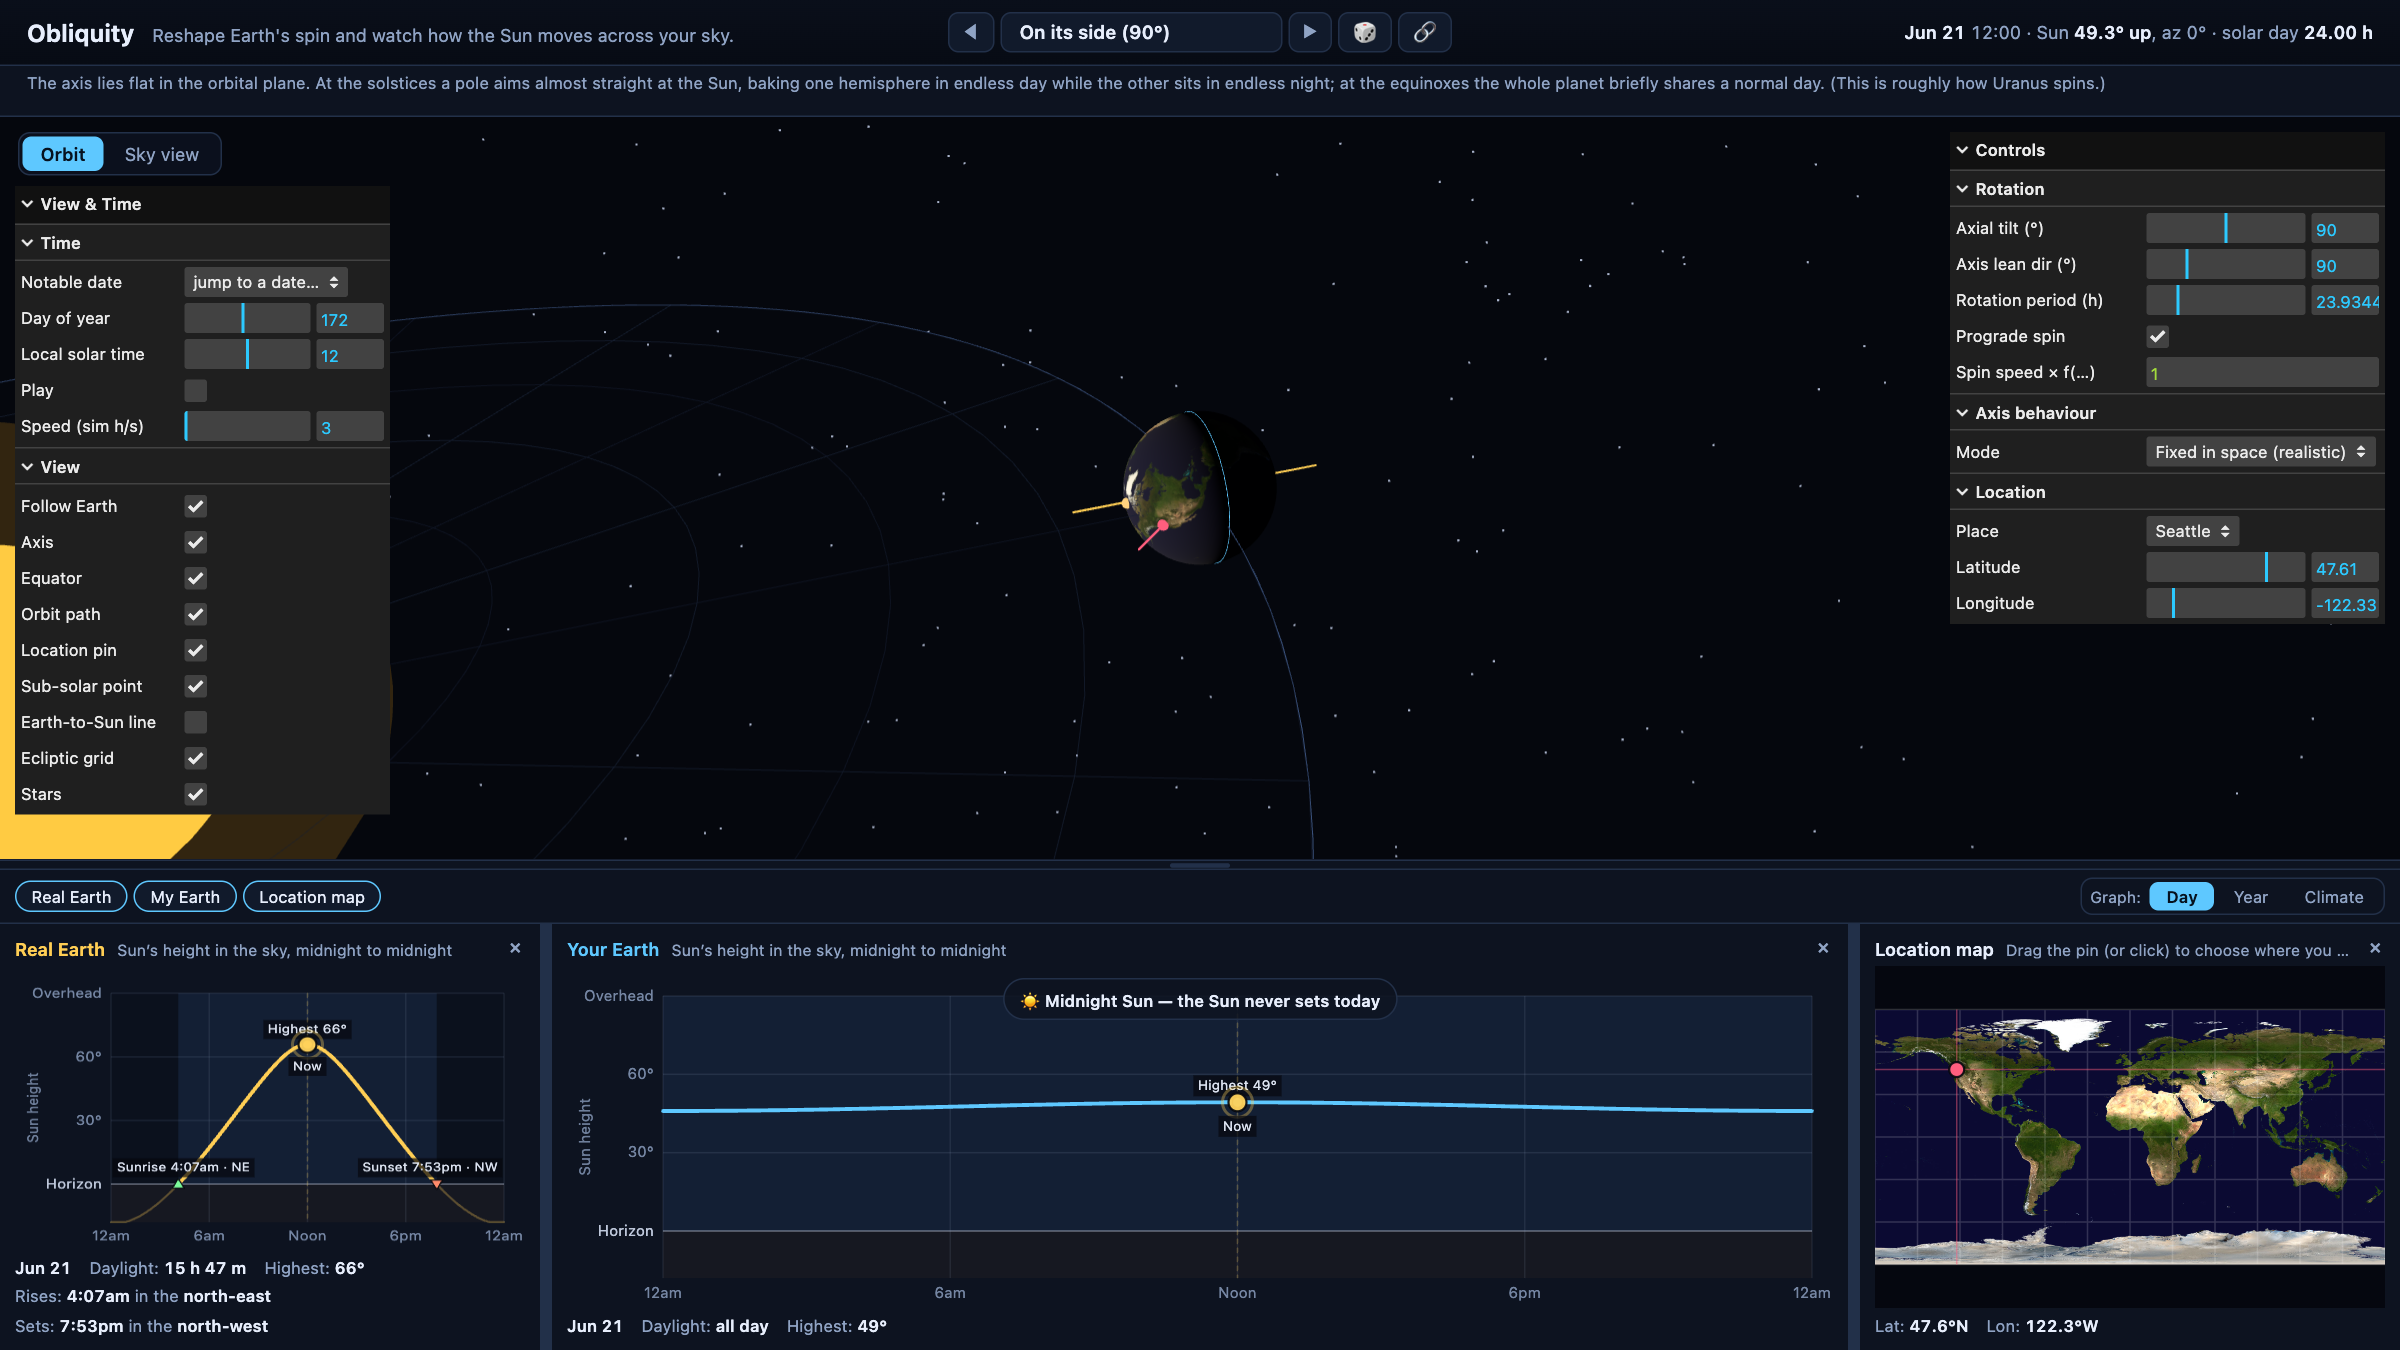
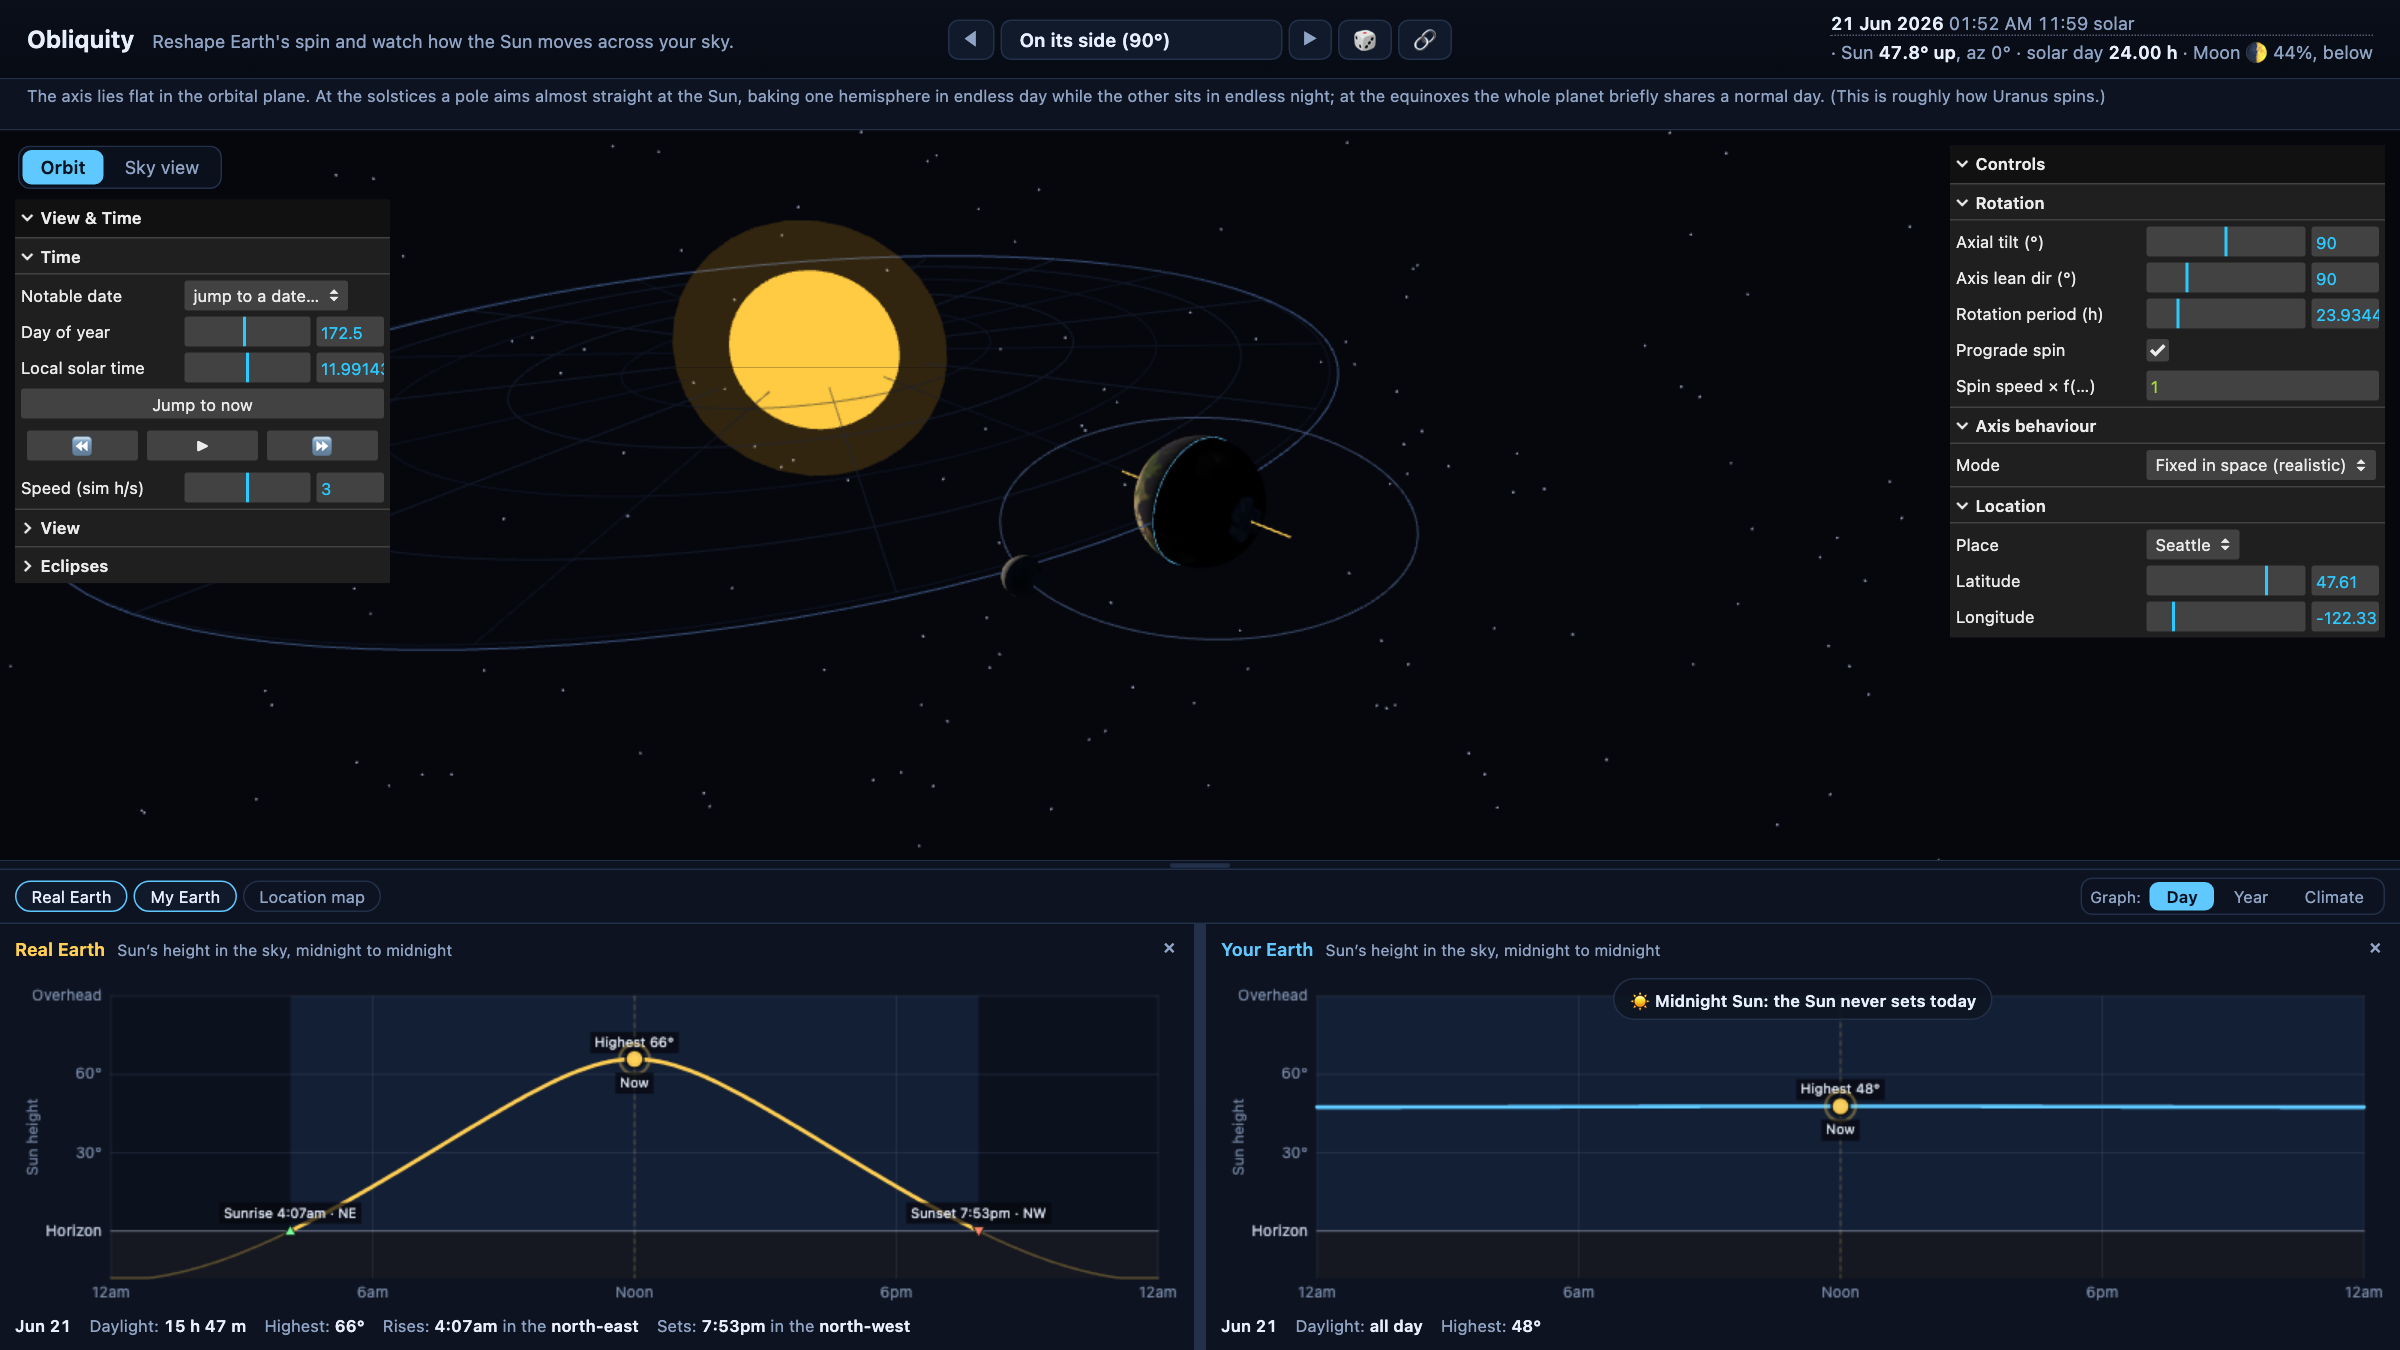
Update the README and refresh its screenshots

diff --git a/README.md b/README.md
@@ -13,11 +13,9 @@ Obliquity is an interactive web app for playing with how the Earth spins. The or
 - Compare the real Earth beside your version, same place and date.
 - See the Sun three ways: a daily arc, a year heatmap, and a felt-warmth climate curve.
 - Watch from a 3D orbit or a first-person sky view, anywhere on Earth.
+- See eclipses happen during your redefinition of the Earth's spin.
 - Jump to solstices, scrub time on the charts, or press play.
 - Start from chaos-tuned scenarios, then share your world with one link.
-
-The same place on the June solstice: the real Earth's familiar arc on the left, and a world tipped fully onto its side on the right, where the Sun simply never sets.
-
 ![Real Earth compared with a world tipped onto its side](docs/compare.png)
 
 The first-person sky view puts you on the ground, watching the Sun arc over a schematic horizon as the day plays out.
@@ -47,12 +45,14 @@ The expressions are not JavaScript. They are parsed by a tiny sandboxed evaluato
 | Name | Meaning |
 | --- | --- |
 | `phase` | Fraction around the orbit, 0 at the March equinox, wrapping at 1. |
-| `lon` | The Sun's ecliptic longitude this orbit, 0 to 360 degrees. |
+| `sol_lon` | The Sun's ecliptic longitude this orbit, 0 to 360 degrees. |
 | `day` | Day of the year, 1 to about 365. |
 | `year`, `t` | Elapsed time in years, accumulating across orbits so the world keeps evolving. |
 | `orbit` | Whole orbits completed so far. |
+| `lat` | The latitude you are standing at, degrees, positive north. |
+| `lon` | The longitude you are standing at, degrees, positive east. |
 
-A formula that uses only `phase`, `lon`, or `day` repeats every year. Bring in `year`, `t`, or `orbit` to make it drift from one orbit to the next; an irrational coefficient such as `0.05*sqrt(2)*year` makes it never exactly repeat.
+A formula that uses only `phase`, `sol_lon`, or `day` repeats every year. Bring in `year`, `t`, or `orbit` to make it drift from one orbit to the next; an irrational coefficient such as `0.05*sqrt(2)*year` makes it never exactly repeat.
 
 ### Functions and constants
 
@@ -74,4 +74,4 @@ For example, the Tumbling World uses a tilt of `65 + 30*wave(phase)` and a lean 
 
 ## Credits
 
-The Earth texture is NASA's public domain Blue Marble imagery. Built with Three.js and lil-gui.
+The Earth texture is NASA's public domain Blue Marble imagery, and the Moon's is NASA's public domain CGI Moon Kit, built from Lunar Reconnaissance Orbiter data. Built with Three.js and lil-gui.
